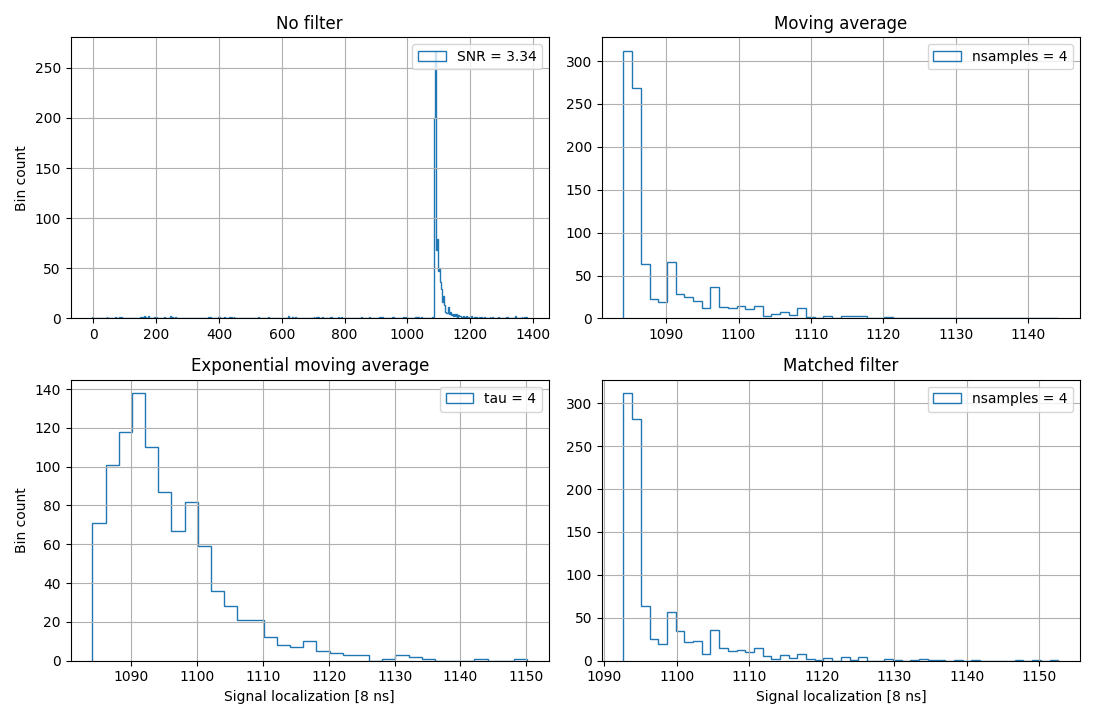
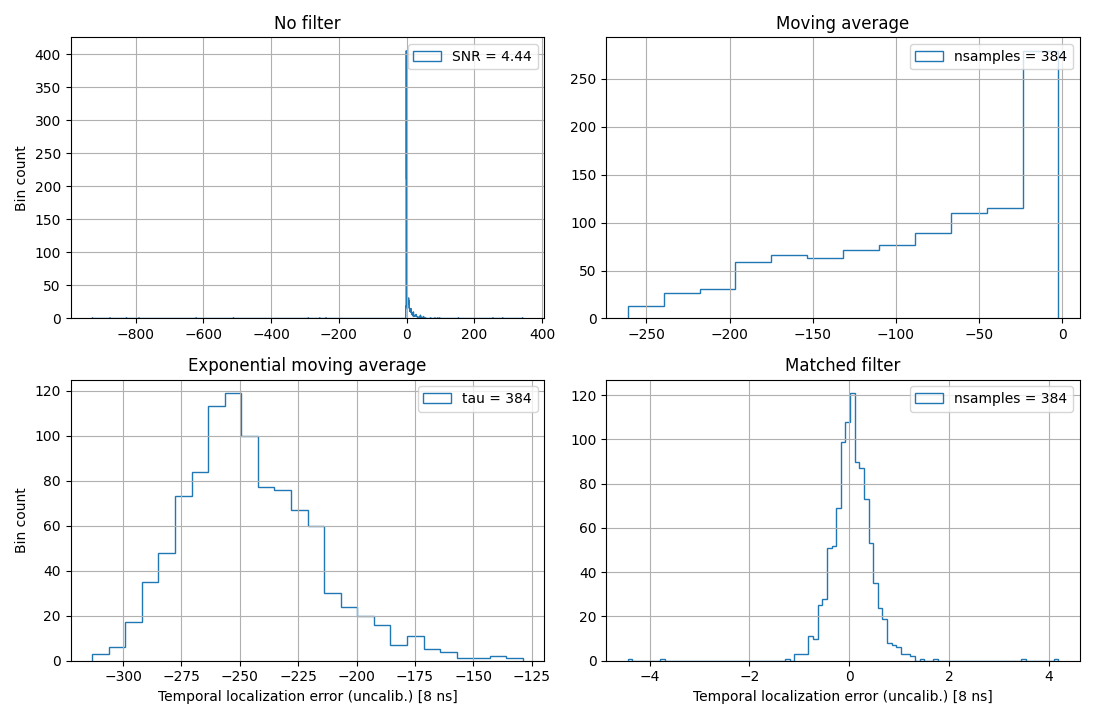
subsample temporal localization

diff --git a/toy.py b/toy.py
@@ -102,6 +102,15 @@ class Template:
         
         # TODO smooth and window the template
         
+        # Convert the template from 1 GSa/s to 125 MSa/s. Make a template for
+        # each possible 1 GSa/s -> 125 GSa/s sample alignment.
+        tlen1ghz = (len(self.template) // 8) * 8
+        padded_template = np.concatenate([np.zeros(7), self.template])
+        self.templates125 = np.stack([
+            np.mean(padded_template[i:tlen1ghz + i].reshape(-1, 8), axis=1)
+            for i in range(7, -1, -1)
+        ])
+        
         # Compute the baseline distribution.
         bs = baseline[mask]
         self.baseline = np.mean(bs)
@@ -136,21 +145,22 @@ class Template:
             Simulated signals.
         """
         nevents = len(signal_loc)
+        tlen = self.templates125.shape[1]
         
         if generator is None:
             generator = np.random.default_rng()
-        
-        # Convert the template from 1 GSa/s to 125 MSa/s.
-        # TODO interpolation, use Gaussian processes, or something quick from
-        # scipy
-        tlen1ghz = (len(self.template) // 8) * 8
-        template = np.mean(self.template[:tlen1ghz].reshape(-1, 8), axis=1)
-        
+                
         out = np.zeros((nevents, event_length))
         
-        indices0 = np.arange(nevents)[:, None]
-        indices1 = np.array(np.rint(signal_loc), int)[:, None] + np.arange(len(template))
-        out[indices0, indices1] = template
+        loc_int = np.array(np.floor(signal_loc), int)
+        loc_subsample = np.array(np.floor((signal_loc % 1) * 8), int)
+                
+        for i in range(8):
+            selection = loc_subsample == i
+            idx = np.flatnonzero(selection)
+            indices0 = idx[:, None]
+            indices1 = loc_int[idx][:, None] + np.arange(tlen)
+            out[indices0, indices1] = self.templates125[i]
         if randampl:
             out *= 1 + self.template_rel_std * generator.standard_normal((nevents, 1))
         if baseline:
@@ -663,8 +673,9 @@ class Toy:
     def _run(self, output, output_event, bslen, bsoffset, generator, margin):
         nevents = len(output)
         event_length = output_event.dtype.fields['signal'][0].shape[0]
-            
-        signal_loc = bslen + bsoffset + margin // 2 + np.zeros(nevents)
+        
+        signal_loc = generator.uniform(size=nevents)
+        signal_loc += bslen + bsoffset + margin // 2
         simulated_signal = self.template.generate(event_length, signal_loc, generator)
         simulated_noise = Noise().generate(nevents, event_length, generator)
 
@@ -674,9 +685,15 @@ class Toy:
         bs_noise = filt_noise.moving_average(bslen)
         bs_signal = filt_signal.moving_average(bslen)
 
-        minima = np.empty((4,) + self.snr.shape + (nevents,), int)
+        minima = np.empty((4,) + self.snr.shape + (nevents,))
         minval = np.empty(minima.shape)
         mfoffset = np.empty(len(self.tau))
+        
+        indices = (
+            np.arange(4)[:, None, None],
+            np.arange(self.snr.shape[1])[None, :, None],
+            np.arange(nevents)[None, None, :]
+        ) # used in the cycle
         
         for i in range(len(self.tau)):
             mf_templ, mf_offset = self.template.matched_filter_template(self.tau[i])
@@ -688,12 +705,24 @@ class Toy:
             sigma = self.template.maximum / self.snr[i]
             sim = signal[:, None, :, :] + sigma[None, :, None, None] * noise[:, None, :, :]
             assert sim.shape == (4, self.snr.shape[1], nevents, event_length)
+            
+            # interpolate the minimum with a parabola
+            x0 = np.argmin(sim, axis=-1)
+            xp = np.minimum(x0 + 1, event_length - 1)
+            xm = np.maximum(x0 - 1, 0)
+            
+            y0 = sim[indices + (x0,)]
+            yp = sim[indices + (xp,)]
+            ym = sim[indices + (xm,)]
+            
+            num = yp - ym
+            denom = yp + ym - 2 * y0
     
-            minima[:, i] = np.argmin(sim, axis=-1)
-            minval[:, i] = np.min(sim, axis=-1)
+            minima[:, i] = x0 - 1/2 * num / denom
+            minval[:, i] = y0 - 1/8 * num ** 2 / denom
     
         idx0 = np.arange(nevents)
-        idx1 = minima - bsoffset - self.tau[:, None, None]
+        idx1 = np.array(np.rint(minima), int) - bsoffset - self.tau[:, None, None]
         sigma = self.template.maximum / self.snr[..., None]
         baseline = bs_signal[idx0, idx1] + sigma * bs_noise[idx0, idx1]
 
@@ -754,7 +783,7 @@ class Toy:
         ax.grid()
         ax.legend(loc='best', fontsize='small')
         ax.set_title(f'Event {ievent}')
-        ax.set_xlabel('Sample number @125 Msa/s')
+        ax.set_xlabel('Sample number @ 125 MSa/s')
         ax.set_ylabel('ADC scale [10 bit]')
     
         fig.tight_layout()
@@ -804,11 +833,13 @@ class Toy:
             if ax.is_last_row():
                 ax.set_xlabel('Unfiltered SNR')
             if ax.is_first_col():
-                ax.set_ylabel('Temporal localization precision [8 ns]\n("1$\\sigma$" interquantile range)')
+                ax.set_ylabel('"1$\\sigma$" interquantile range of\ntemporal localization error [8 ns]')
             ax.grid()
             ax.set_title(Filter.name(ifilter))
     
         axs[0].set_yscale('symlog', linthreshy=1, linscaley=0.5)
+        lims = axs[0].get_ylim()
+        axs[0].set_ylim(min(0, lims[0]), lims[1])
     
         fig.tight_layout()
         fig.show()
@@ -837,7 +868,7 @@ class Toy:
         axs = fig.subplots(2, 2).reshape(-1)
     
         for ifilter, ax in enumerate(axs):
-            data = output['loc'][:, ifilter, itau, isnr]
+            data = output['loc'][:, ifilter, itau, isnr] - output['loctrue']
             if ifilter == 0:
                 label = f'SNR = {self.snr[itau, isnr]:.2f}'
             elif ifilter == 2:
@@ -846,7 +877,7 @@ class Toy:
                 label = f'nsamples = {self.tau[itau]}'
             ax.hist(data, bins='auto', histtype='step', label=label)
             if ax.is_last_row():
-                ax.set_xlabel('Signal localization [8 ns]')
+                ax.set_xlabel('Temporal localization error (uncalib.) [8 ns]')
             if ax.is_first_col():
                 ax.set_ylabel('Bin count')
             ax.grid()
